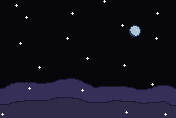
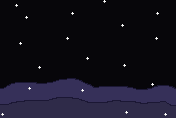
Added moon in the background that slowly moves

Changed region(s): [[0.7102, 0.2034, 0.8239, 0.3305]]

diff --git a/js/gameObjectsRendering.js b/js/gameObjectsRendering.js
@@ -4,35 +4,18 @@ let ctx = canvas.getContext('2d')
 ctx.imageSmoothingEnabled = false
 
 // Sprites
-let brickSprite = new Image()
-let paddleSprite = new Image()
 let ballSprite = new Image()
-brickSprite.src = '../img/brick.png'
-paddleSprite.src = '../img/paddle.png'
+let brickSprite = new Image()
+let moonSprite = new Image()
+let paddleSprite = new Image()
 ballSprite.src = '../img/ball.png'
-
-// Draws the score
-function drawScore(){
-  ctx.font = '16px Arial'
-  ctx.fillStyle = '#0095DD'
-  ctx.fillText(`Score: ${score}`, 8, 20)
-}
-
-// Draws the lives
-function drawLives(){
-  ctx.font = '16px Arial'
-  ctx.fillStyle = '#0095DD'
-  ctx.fillText(`Lives: ${lives}`, canvas.width-65, 20)
-}
+brickSprite.src = '../img/brick.png'
+moonSprite.src = '../img/moon.png'
+paddleSprite.src = '../img/paddle.png'
 
 // Draws the ball
 function drawBall(){
   ctx.drawImage(ballSprite, ball.x-ball.radius, ball.y-ball.radius, ball.radius*2, ball.radius*2)
-}
-
-// Draws the paddle
-function drawPaddle(){
-  ctx.drawImage(paddleSprite, paddle.x, canvas.height-paddle.height, paddle.width, paddle.height)
 }
 
 // Draw a bricks
@@ -49,4 +32,27 @@ function drawBricks(){
       }
     }
   }
+}
+
+// Draws the lives
+function drawLives(){
+  ctx.font = '16px Arial'
+  ctx.fillStyle = '#0095DD'
+  ctx.fillText(`Lives: ${lives}`, canvas.width-65, 20)
+}
+
+function drawMoon(){
+  ctx.drawImage(moonSprite, moon.x, moon.y, moon.width, moon.height)
+}
+
+// Draws the paddle
+function drawPaddle(){
+  ctx.drawImage(paddleSprite, paddle.x, canvas.height-paddle.height, paddle.width, paddle.height)
+}
+
+// Draws the score
+function drawScore(){
+  ctx.font = '16px Arial'
+  ctx.fillStyle = '#0095DD'
+  ctx.fillText(`Score: ${score}`, 8, 20)
 }

diff --git a/js/gameObjectConstructors.js b/js/gameObjectConstructors.js
@@ -3,7 +3,6 @@ function Ball() {
   this.radius = 10
   this.x = canvas.width/2
   this.y = canvas.height-30
-  this.color = '#0095dd'
   this.randomColor = getRandomColor()
   this.baseSpeed = 3
   this.speedX = this.baseSpeed
@@ -11,22 +10,29 @@ function Ball() {
   this.speed = Math.sqrt(this.speedX**2 + this.speedY**2)
 }
 
-function Paddle() {
-  this.height = 10
-  this.width = 75
-  this.color = '#0095DD'
-  this.x = (canvas.width-this.width)/2
-  this.speedX = 7
-}
-
 function Brick() {
   this.height = 20
   this.width = 75
-  this.color = '#0095DD'
   this.rows = 3
   this.columns = 5
   this.padding = 10
   this.offsetTop = 30
   this.offsetLeft = 30
   this.scoreValue = 2
+}
+
+function Moon(){
+  this.baseSize = 26
+  this.height = this.baseSize
+  this.width = this.baseSize
+  this.x = canvas.width-100
+  this.y = 60
+  this.speedX = 0.05
+}
+
+function Paddle() {
+  this.height = 10
+  this.width = 75
+  this.x = (canvas.width-this.width)/2
+  this.speedX = 7
 }

diff --git a/js/app.js b/js/app.js
@@ -2,6 +2,7 @@
 let ball = new Ball()
 let brick = new Brick()
 let bricks = []
+let moon = new Moon()
 let paddle = new Paddle()
 
 // Variables
@@ -26,11 +27,12 @@ for(let c = 0; c < brick.columns; c++){
 // Primary Rendering Function
 function draw(){
   ctx.clearRect(0, 0, canvas.width, canvas.height)
+  drawMoon()
   drawBall()
   drawPaddle()
   drawScore()
-  drawLives()
   drawBricks()
+  drawLives()
   collisionDetection()
 
   // Checks to see if a button has been pressed
@@ -75,8 +77,15 @@ function draw(){
     }
   }
 
+  // Position Adjustments based on speed
   ball.x += ball.speedX
   ball.y += ball.speedY
+  moon.x -= moon.speedX
+  
+  // If the moon goes off the screen, pushes it back to the other side
+  if(moon.x < 0 - moon.width){
+    moon.x = canvas.width+moon.width
+  }
 
   requestAnimationFrame(draw)
 }

diff --git a/README.md b/README.md
@@ -23,7 +23,7 @@ A 2D game made with Javascript in which you hit a ball with a paddle, directing 
 - Add better comments -DONE
 - Add sprites -DONE
 - Add background -DONE
-- Add slowly moving moon
+- Add slowly moving moon -DONE
 - Add new font
 - Make final score display correctly
 - Add new game over screen
